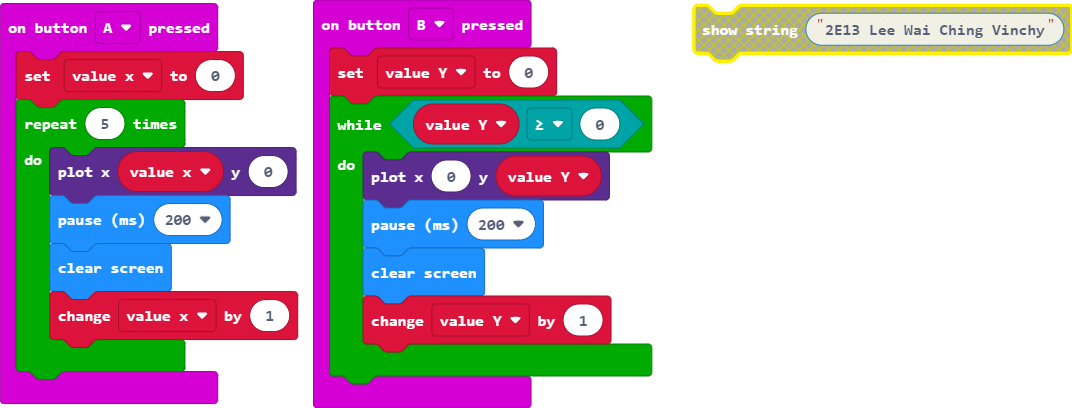
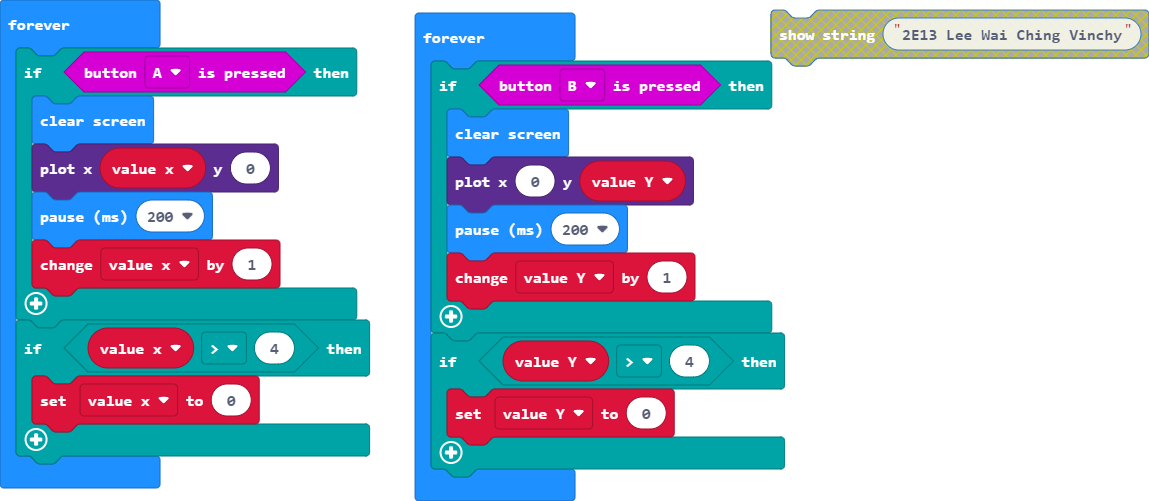
Update main.blocks, main.ts

diff --git a/main.ts b/main.ts
@@ -1,20 +1,24 @@
 let value_x = 0
 let value_Y = 0
-input.onButtonPressed(Button.A, function () {
-    value_x = 0
-    for (let index = 0; index < 5; index++) {
+basic.forever(function () {
+    if (input.buttonIsPressed(Button.A)) {
+        basic.clearScreen()
         led.plot(value_x, 0)
         basic.pause(200)
-        basic.clearScreen()
         value_x += 1
     }
+    if (value_x > 4) {
+        value_x = 0
+    }
 })
-input.onButtonPressed(Button.B, function () {
-    value_Y = 0
-    while (value_Y >= 0) {
+basic.forever(function () {
+    if (input.buttonIsPressed(Button.B)) {
+        basic.clearScreen()
         led.plot(0, value_Y)
         basic.pause(200)
-        basic.clearScreen()
         value_Y += 1
+    }
+    if (value_Y > 4) {
+        value_Y = 0
     }
 })
